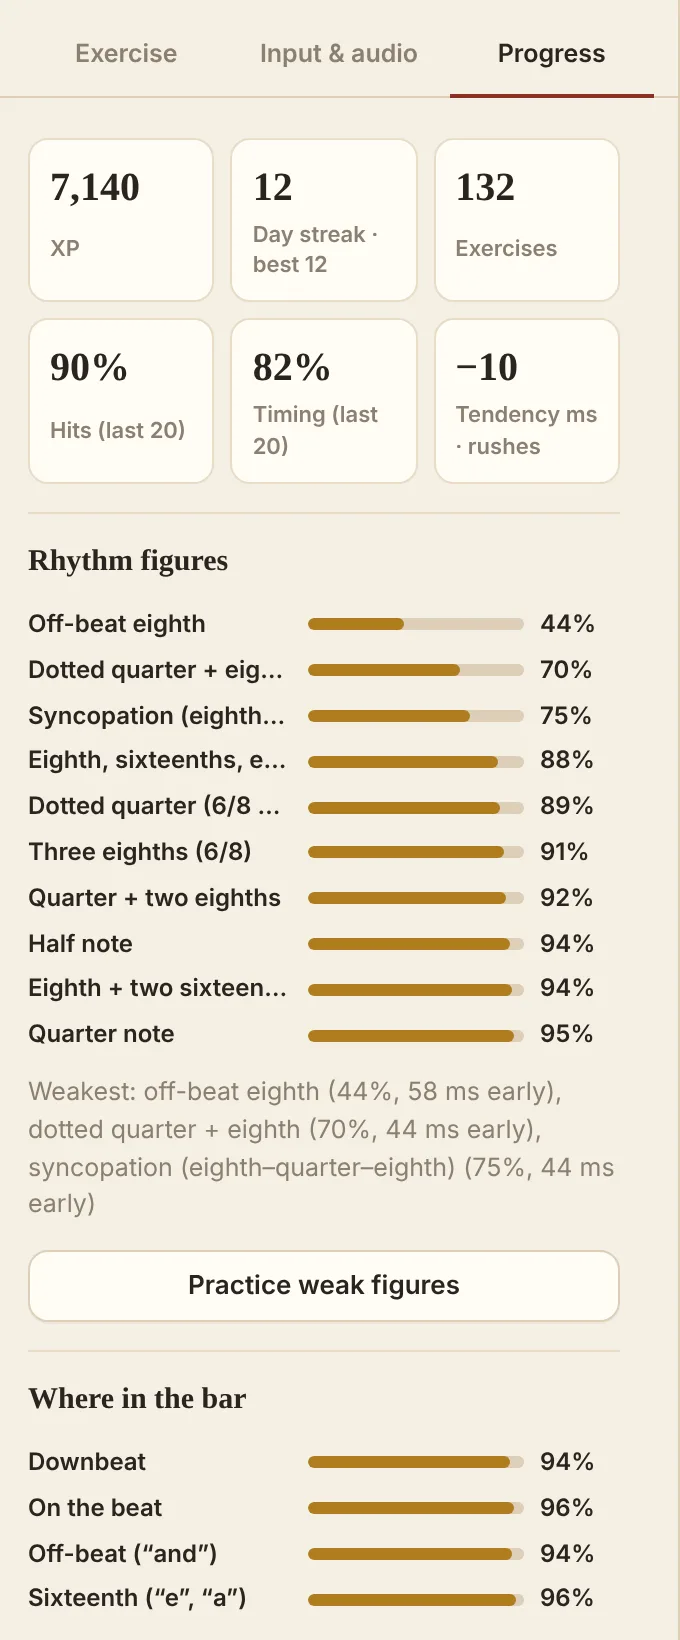
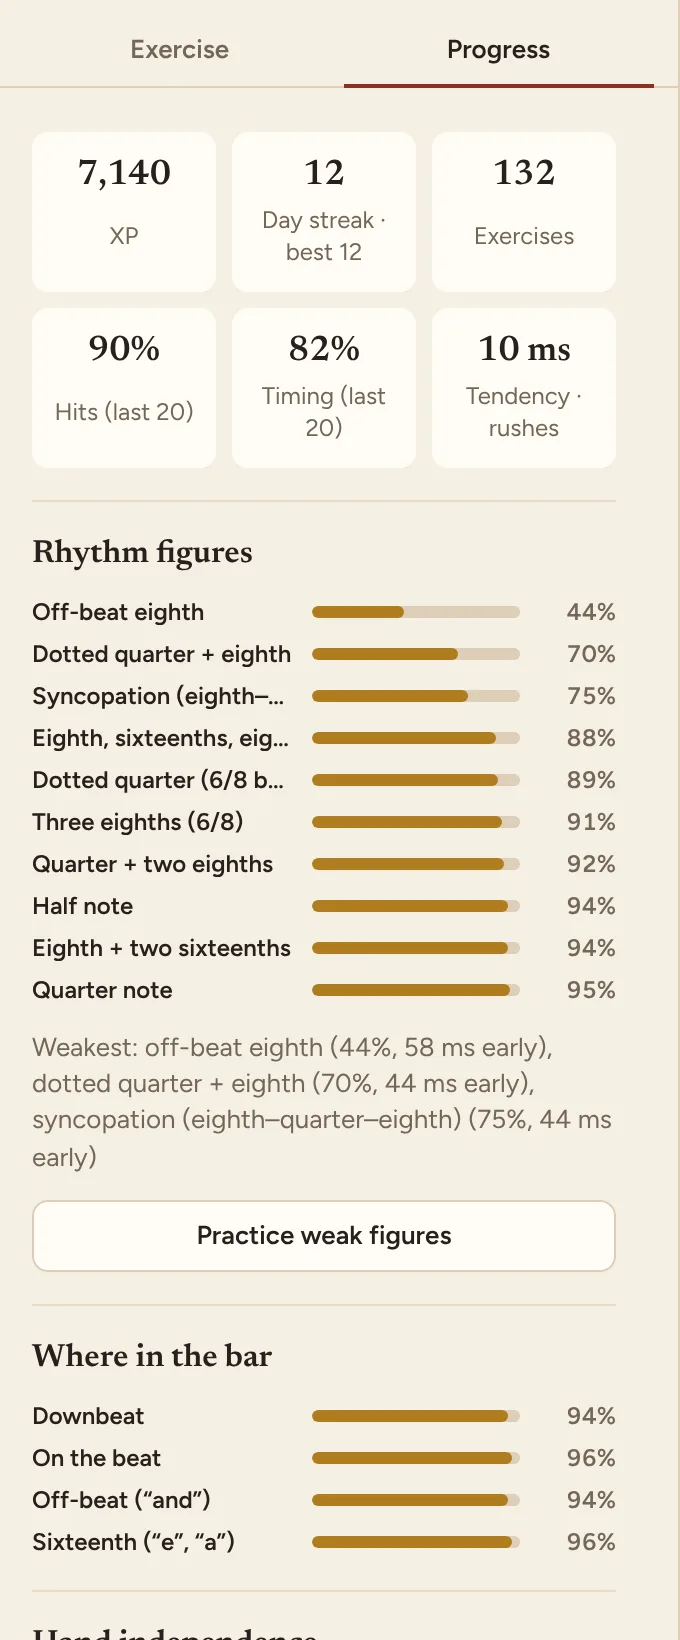
Bring the page up to date with the app's design system
Every screenshot retaken from the app as it is now (results in the new
wording, the stage on the design system), og.png included, which still
showed the app from before it. The favicon and the header logo are the
keys, as in the app; the filled mark is retired there. Alt texts follow
the new screenshots; percent takes no space (90%), and a band of levels
is a tier.

Claude-Session: https://claude.ai/code/session_01WQSh9NVwTawMsLm6V95XEd

diff --git a/index.html b/index.html
@@ -24,7 +24,7 @@
     <a class="skip" href="#main">Skip to content</a>
     <header class="site-header">
       <a class="brand" href="./" aria-label="practice-piano.com home">
-        <img src="./favicon.svg" alt="" width="28" height="28" />
+        <svg class="brand-mark" viewBox="0 0 28 28" width="28" height="28" aria-hidden="true" focusable="false"><rect class="logo-keys-field" x="1" y="1" width="26" height="26" rx="7" fill="#fbf7ee"/><path class="logo-keys-lines" d="M9.56 2v24M17.48 2v24" fill="none" stroke="#dccfb9" stroke-width=".72"/><path class="logo-keys-black" d="M7.28 2h2.88v13.92H7.28zM15.44 2h2.88v13.92h-2.88z" fill="#26211d"/><rect class="logo-keys-edge" x="1" y="1" width="26" height="26" rx="7" fill="none" stroke="#8c2f22" stroke-width="2"/></svg>
         <span>practice-piano<span class="tld">.com</span></span>
       </a>
       <nav aria-label="Sections">
@@ -123,7 +123,7 @@
               width="960"
               height="661"
               loading="lazy"
-              alt="Scale results: 100% notes, 100% timing, touch evenness ±17%, hands 17 ms apart, tempo up from 64 to 68 bpm, timing bumps at the thumb crossings, and a note that the thumb plays louder than the other fingers."
+              alt="Scale results, a clean run: 100% notes, 100% timing within 17 ms, evenness ±17%, hands 17 ms apart, tempo up from 64 to 68 bpm with a review in 4 days, timing bumps at the thumb crossings, and a note that the thumb plays louder than the other fingers."
             />
             <figcaption>After a two-octave D major scale, hands together.</figcaption>
           </figure>
@@ -133,7 +133,7 @@
               width="960"
               height="400"
               loading="lazy"
-              alt="Rhythm results: 100% hits, 100% timing, tendency 35 ms early, drift when silent 45 ms rushing."
+              alt="Rhythm results, passed: 100% hits, 100% timing, a tendency of 35 ms early, and a drift of 45 ms, rushing, in the silent bars."
             />
             <figcaption>Rhythm, Pulse task: fine with the click, rushing without it.</figcaption>
           </figure>
@@ -143,7 +143,7 @@
               width="960"
               height="622"
               loading="lazy"
-              alt="Chord progression results: 8 of 8 chords on the beat, 99% timing, keys 10 ms apart, voice leading 49% (6.1 semitones moved per change where 3 would do), tempo up from 60 to 64 bpm, and a B flat chord whose keys came 165 ms apart."
+              alt="Chord progression results, a clean run: 8 of 8 chords on the beat, 99% timing, a little late, keys 10 ms apart, voice leading 49%, tempo up from 60 to 64 bpm, a B flat chord whose keys came 165 ms apart, and a note that the hand moves 6.1 semitones a change where 3 would do."
             />
             <figcaption>A pop progression in E♭: on time, but one chord rolled and one change took the long way.</figcaption>
           </figure>
@@ -185,7 +185,7 @@
             </ul>
           </div>
           <figure class="shot">
-            <img src="./img/ear.webp" width="1800" height="1388" loading="lazy" alt="Ear training: three notes found and shown on the staff, two more hidden behind question marks, with Replay, Hint and New phrase below." />
+            <img src="./img/ear.webp" width="1800" height="1388" loading="lazy" alt="Ear training: three notes found and shown on the staff, two more hidden behind question marks, a wrong key crossed out on the piano with “Not that one. Try again.” in the practice bar, and Replay, Hint and New phrase below." />
           </figure>
         </article>
 
@@ -281,7 +281,7 @@
         <div class="progress-text">
           <h2>Progress you can trust</h2>
           <p>
-            Levels only count when the notes are right. Mastering a band takes several different passages at 90&nbsp;% or better, and experience
+            Levels only count when the notes are right. Mastering a tier takes several different passages at 90% or better, and experience
             points grow with the level you play and how cleanly you play it: a hard passage played sloppily earns less than an easy one played clean.
           </p>
           <p>

diff --git a/README.md b/README.md
@@ -19,8 +19,12 @@ python3 -m http.server 8090   # then open http://localhost:8090
 ```
 
 - `img/` — screenshots of the real app (WebP, captured at 2× from the app's dev build with
-  Playwright and its fake Web MIDI input). Retake them when the app's UI changes, and keep the
-  feature descriptions in `index.html` in step with the app.
+  Playwright and its fake Web MIDI input), and `og.png`, the image a shared link shows. All of
+  them come from the app's `npm run screenshots`, which writes into this folder when the two
+  repositories sit side by side. Retake them when the app's UI changes, and keep the feature
+  descriptions and alt texts in `index.html` in step with the app.
+- `favicon.svg` — a copy of the app's `public/favicon.svg`: the keys, drawn for 16px. The logo in
+  the header is the keys too, inlined from the app's `design/system/assets/Logos/practice-piano-keys.svg`.
 - `fonts/` — Newsreader (text) and Caveat (the hand-written feedback in the hero), both under
   the SIL Open Font License (see the `OFL-*.txt` files); self-hosted, so the page makes no
   third-party requests.
